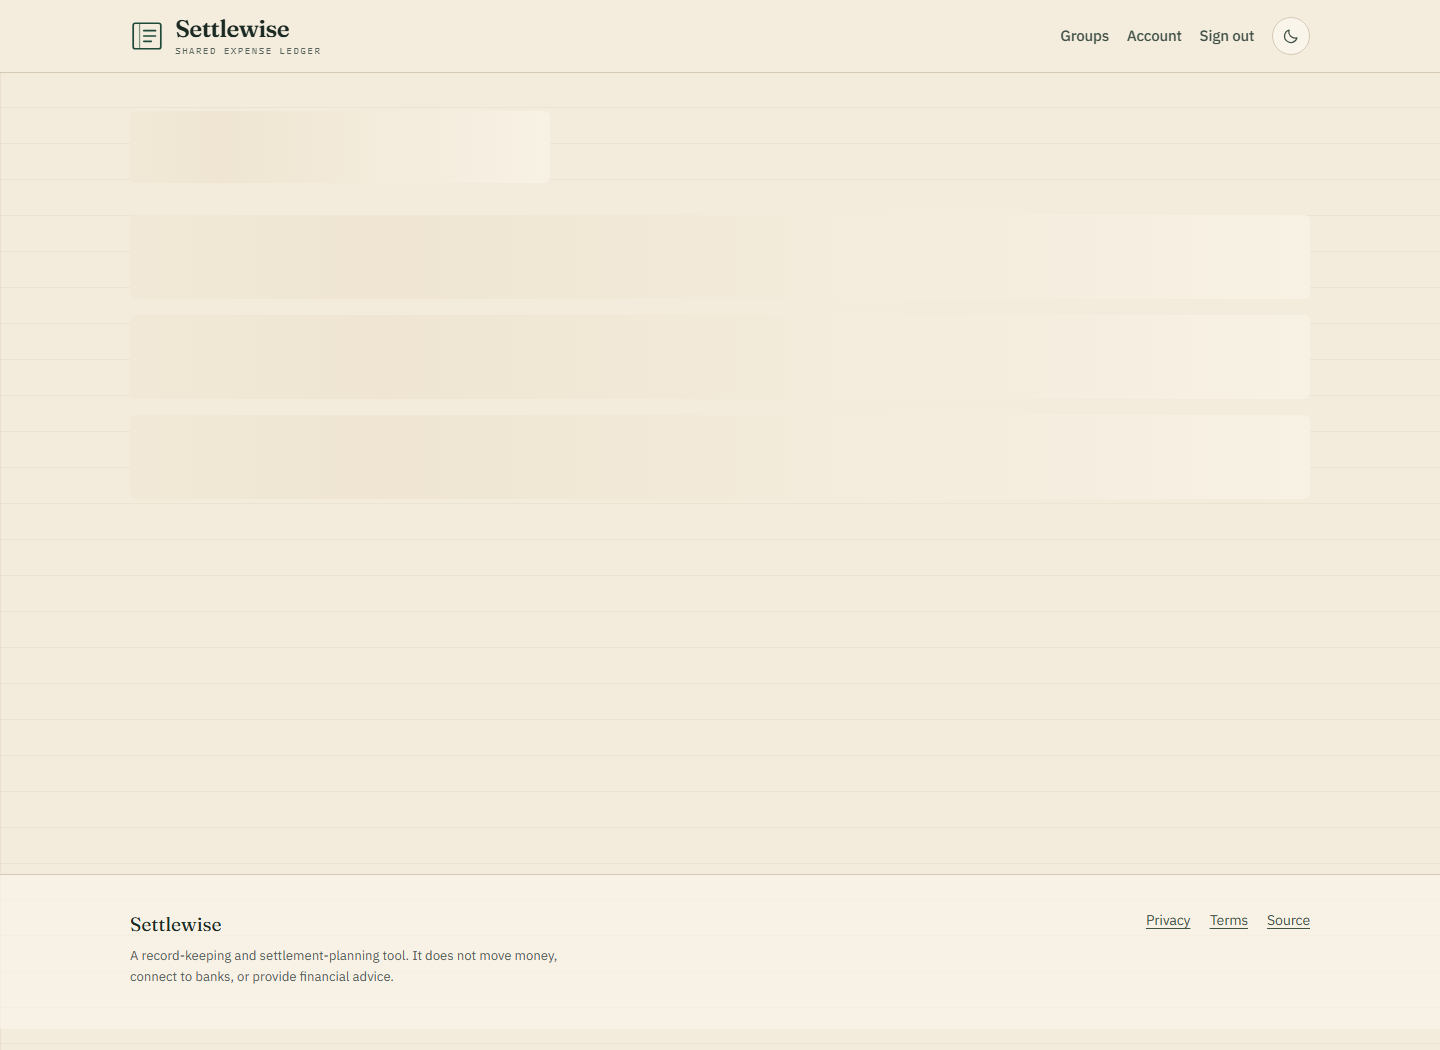
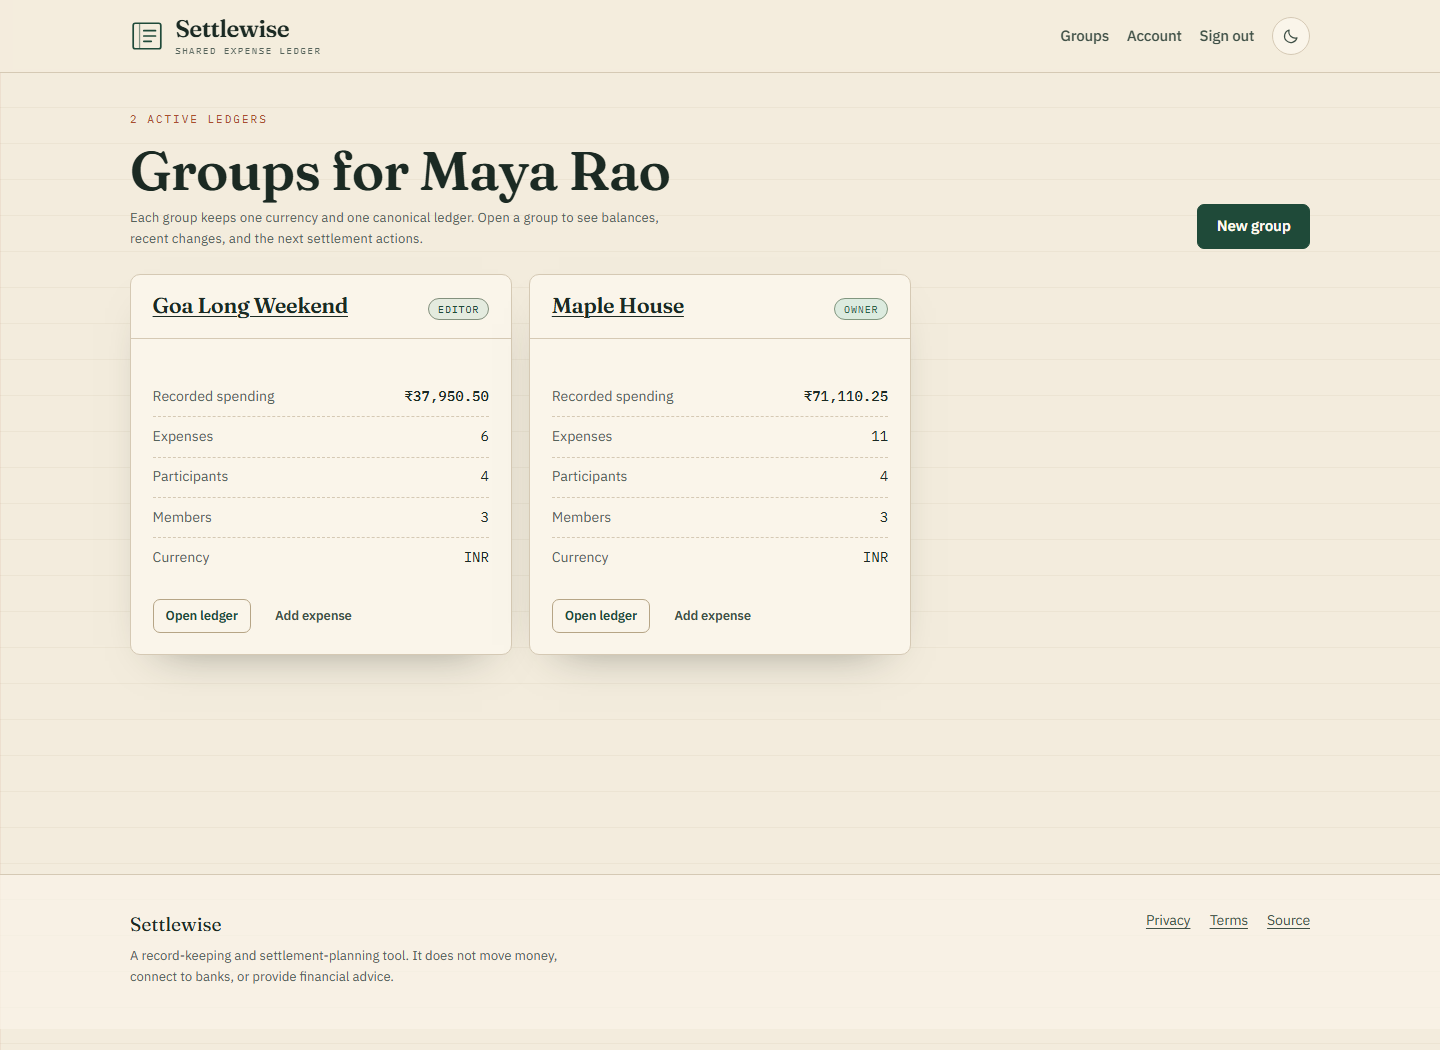
fix: contain absolutely positioned labels inside scrolling tables

diff --git a/e2e/responsive.spec.ts b/e2e/responsive.spec.ts
@@ -4,7 +4,8 @@ import { clearRateLimits, getSeededGroupPath, logIn } from "./helpers";
 const WIDTHS = [390, 768, 1440];
 
 test("layouts do not scroll horizontally at 390, 768, or 1440", async ({ page }, testInfo) => {
-  test.skip(testInfo.project.name !== "mobile", "responsive check runs once, in the mobile project");
+  // Desktop Chromium reports real layout overflow; a mobile-emulated context clamps the document width.
+  test.skip(testInfo.project.name !== "chromium", "responsive check runs once, in the desktop project");
   await clearRateLimits();
 
   async function expectNoOverflow(paths: string[]) {

diff --git a/src/app/globals.css b/src/app/globals.css
@@ -615,6 +615,7 @@ svg {
 }
 
 .table-wrap {
+  position: relative;
   overflow-x: auto;
   border-radius: 8px;
 }
